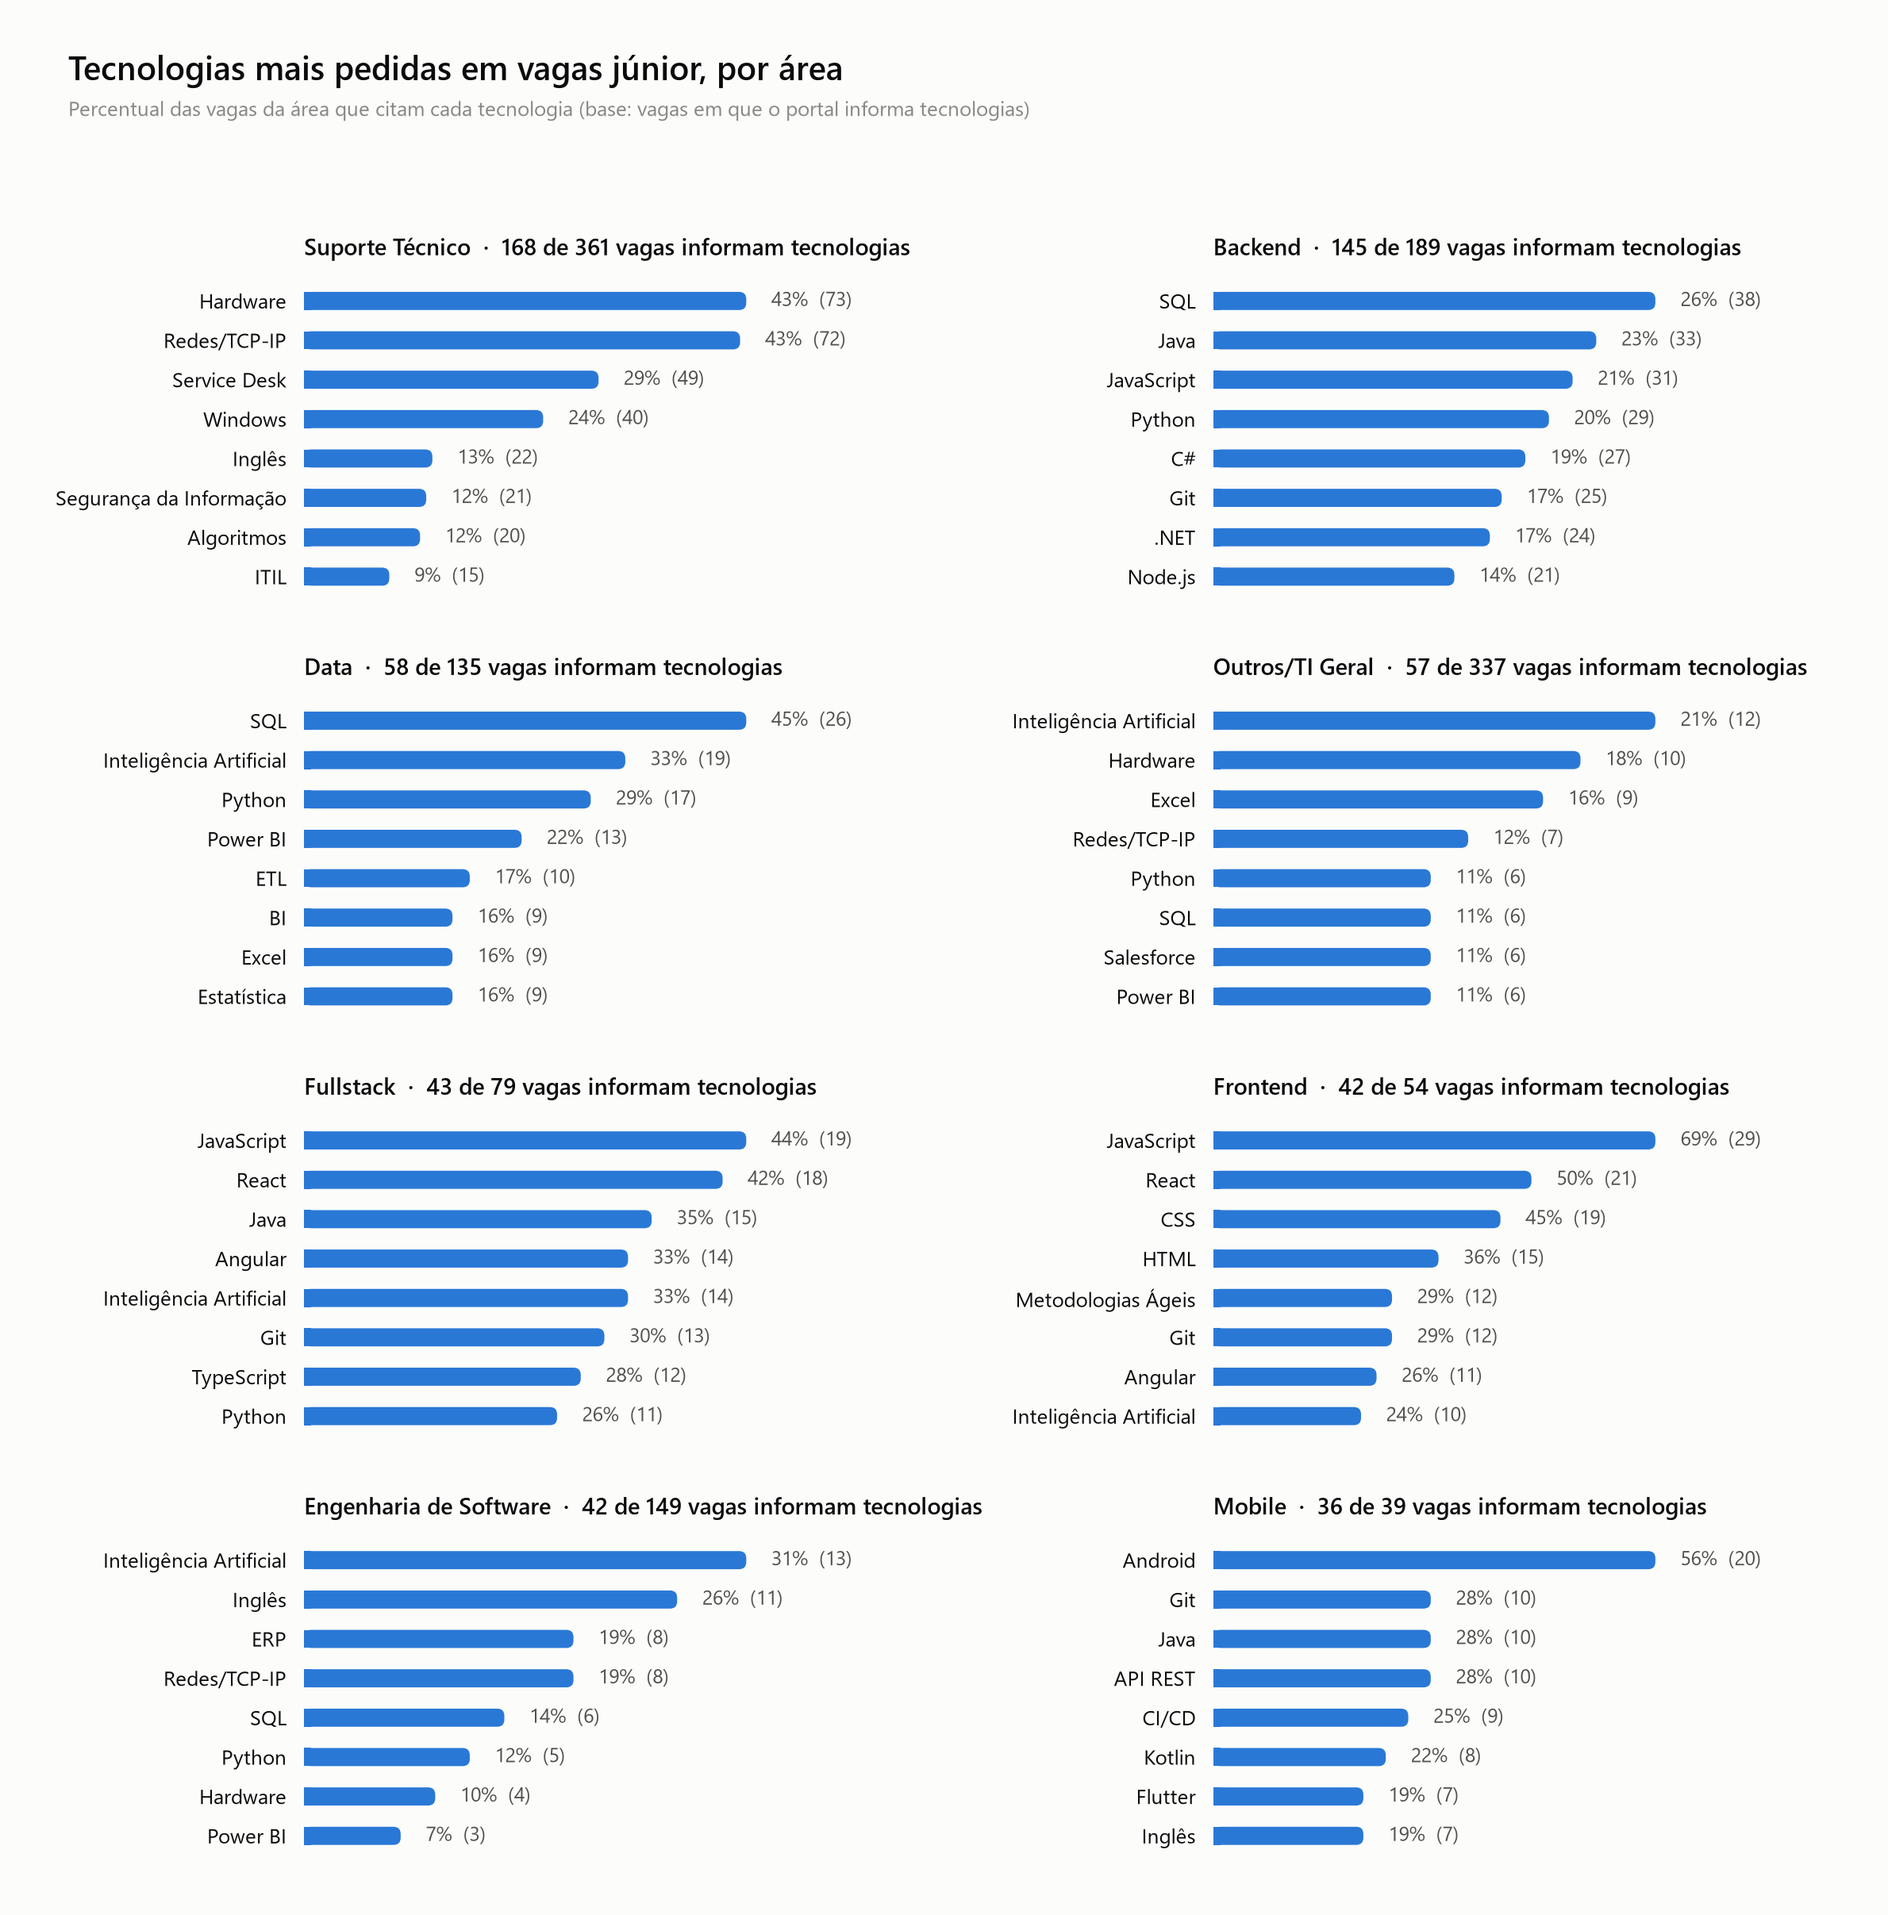
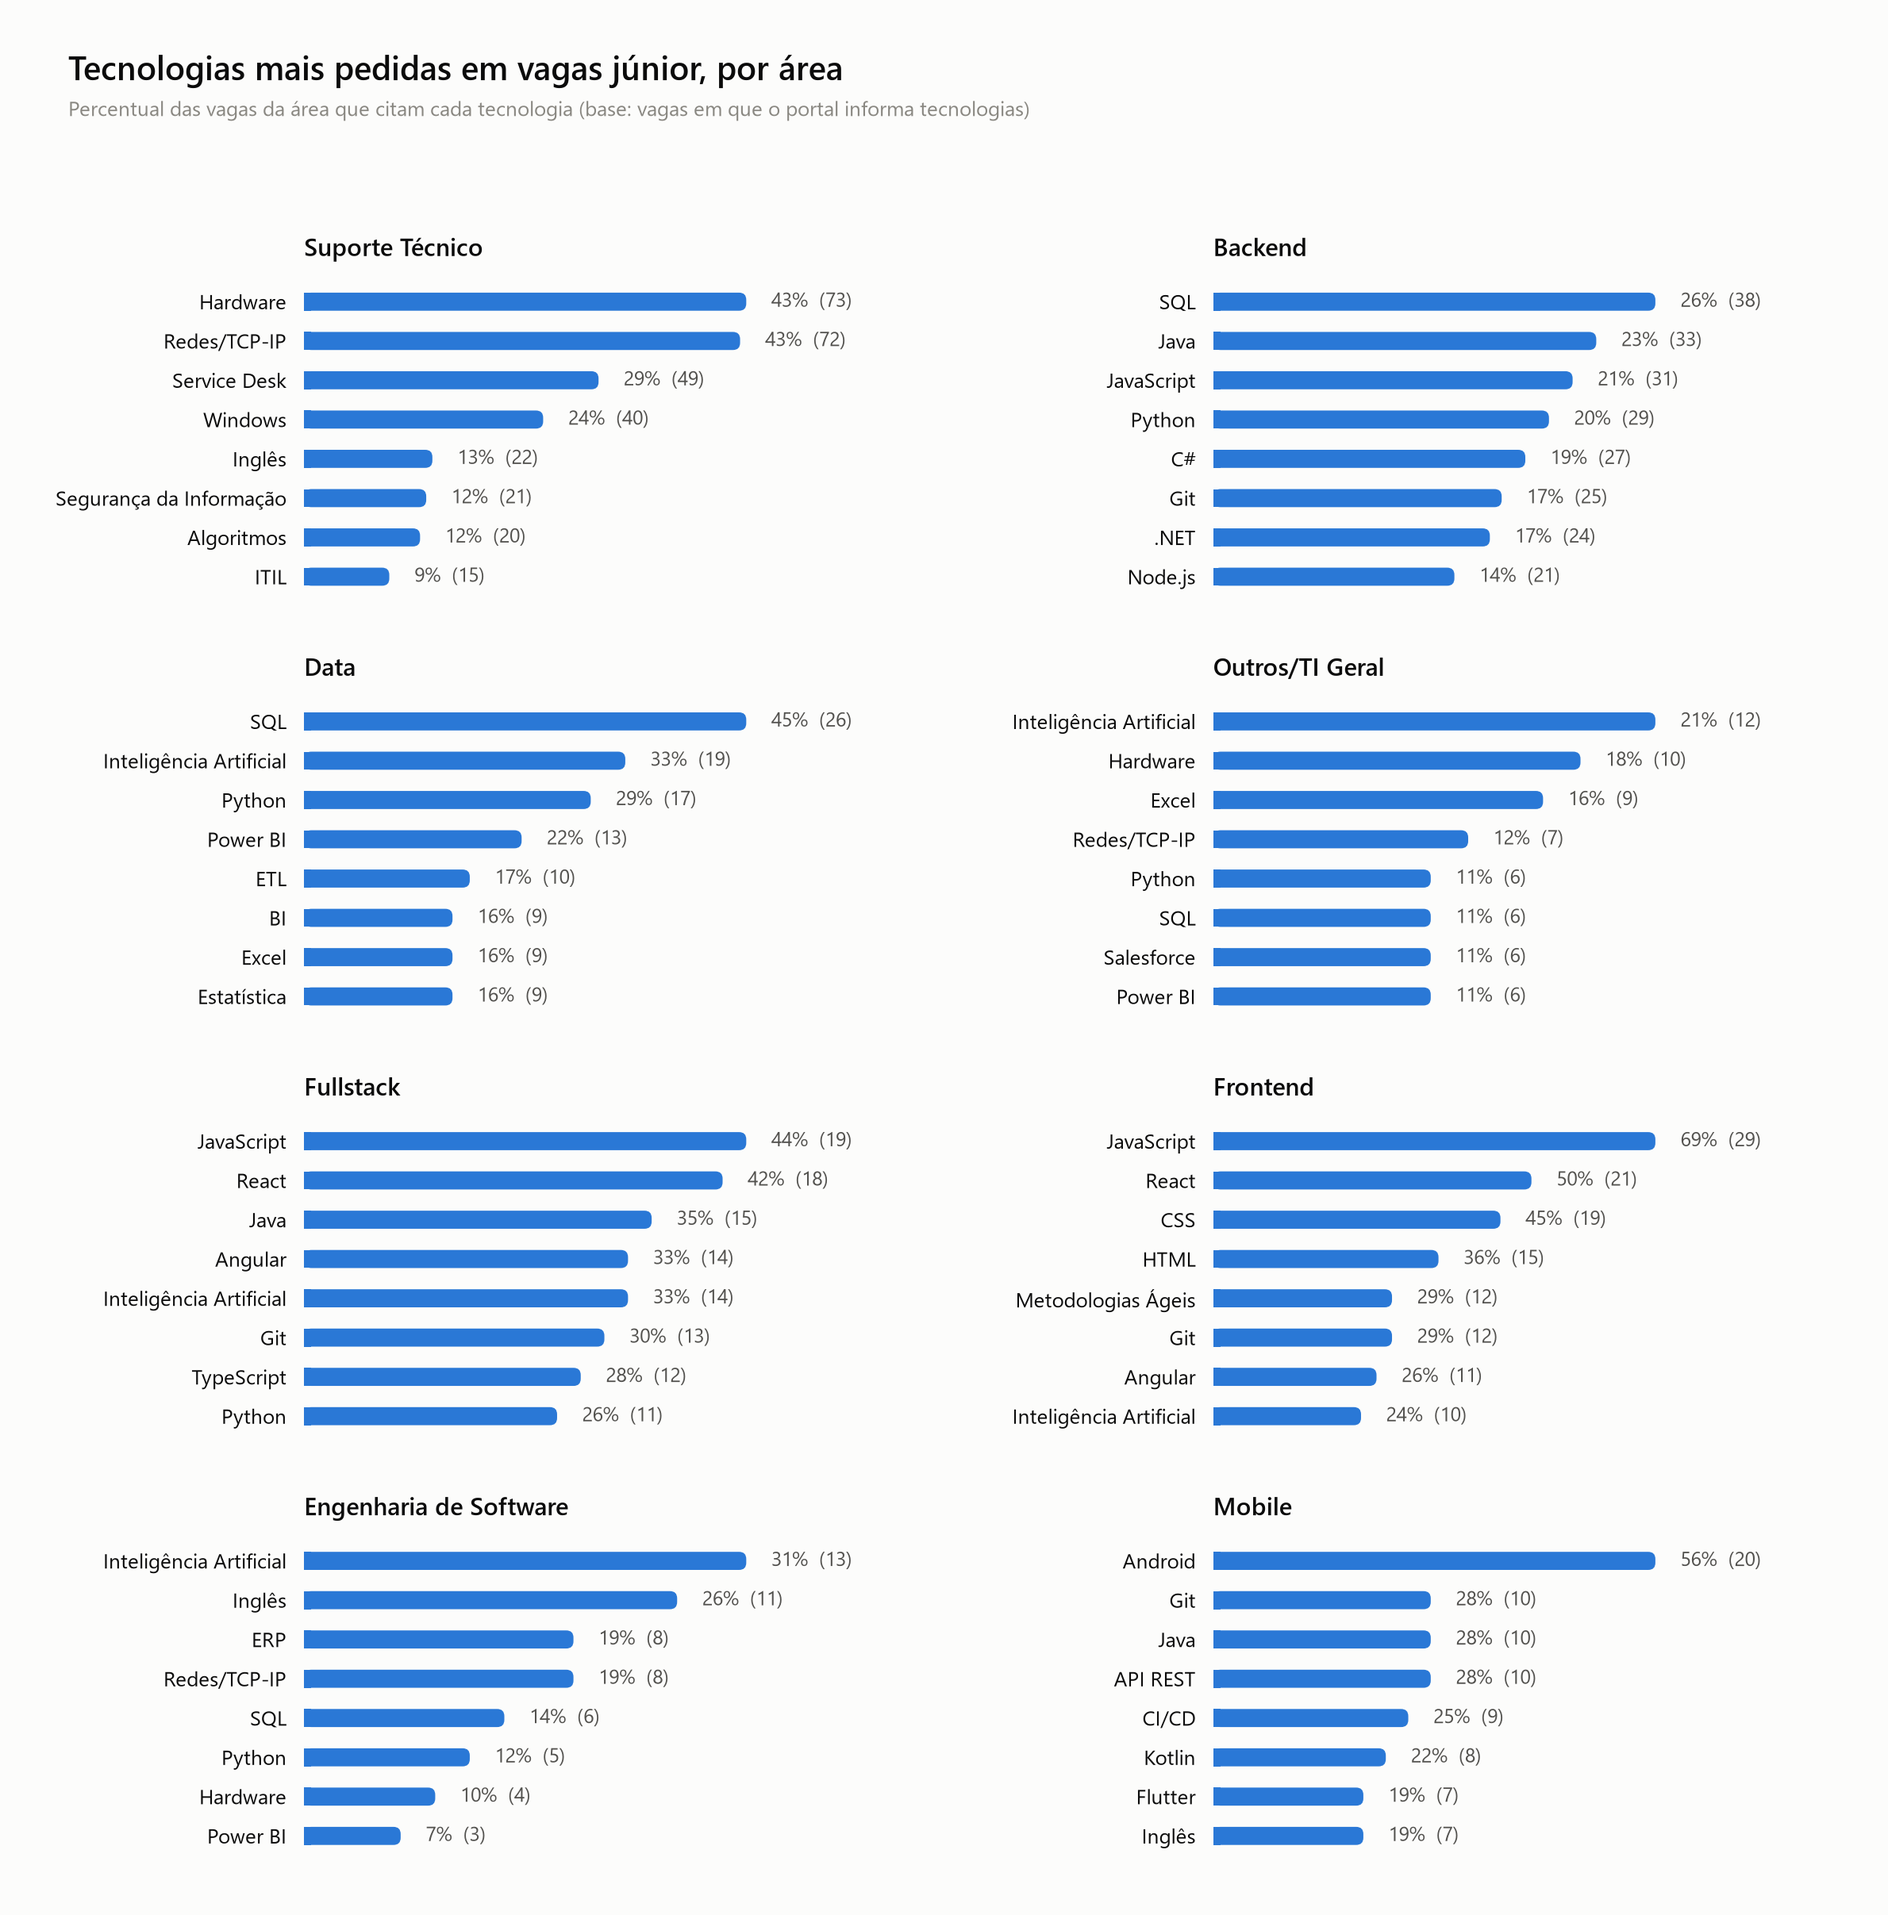
refactor(charts): simplifica titulos e remove textos redundantes nos graficos PNG

diff --git a/scraper/charts.py b/scraper/charts.py
@@ -288,9 +288,8 @@ def chart_skills(
         ax.set_ylim(-0.6, len(names) - 0.4)
         _bare_axes(ax)
         ax.set_title(
-            f"{area}  ·  {bases.get(area, 0)} de {area_sizes.get(area, 0)} vagas "
-            "informam tecnologias",
-            loc="left", fontsize=10.5, fontweight="600",
+            f"{area}",
+            loc="left", fontsize=11, fontweight="600",
             color=INK_PRIMARY, pad=10,
         )
 
@@ -299,11 +298,9 @@ def chart_skills(
         x=0.02, y=0.985, ha="left", fontsize=15, fontweight="600",
         color=INK_PRIMARY,
     )
-    note = subtitle or (
-        "Percentual das vagas da área que citam cada tecnologia — "
-        "base: só as vagas em que o portal informa tecnologias"
-    )
-    fig.text(0.02, 0.952, note, ha="left", fontsize=9.5, color=INK_MUTED)
+    if subtitle:
+        fig.text(0.02, 0.952, subtitle, ha="left", fontsize=9.5, color=INK_MUTED)
+
 
     fig.tight_layout(rect=(0, 0, 1, 0.93), h_pad=2.6, w_pad=4.0)
     for ax, counts in panels:

diff --git a/docs/relatorios/relatorio_banco_consolidado.md b/docs/relatorios/relatorio_banco_consolidado.md
@@ -1,6 +1,6 @@
 # Relatório Consolidado da Base de Vagas (1498 vagas)
 
-- **Data de geração:** 25/08/2026 01:52
+- **Data de geração:** 25/08/2026 01:55
 - **Período coberto:** 05/01/2026 até 24/08/2026
 - **Total de vagas consolidadas:** 1498
 
